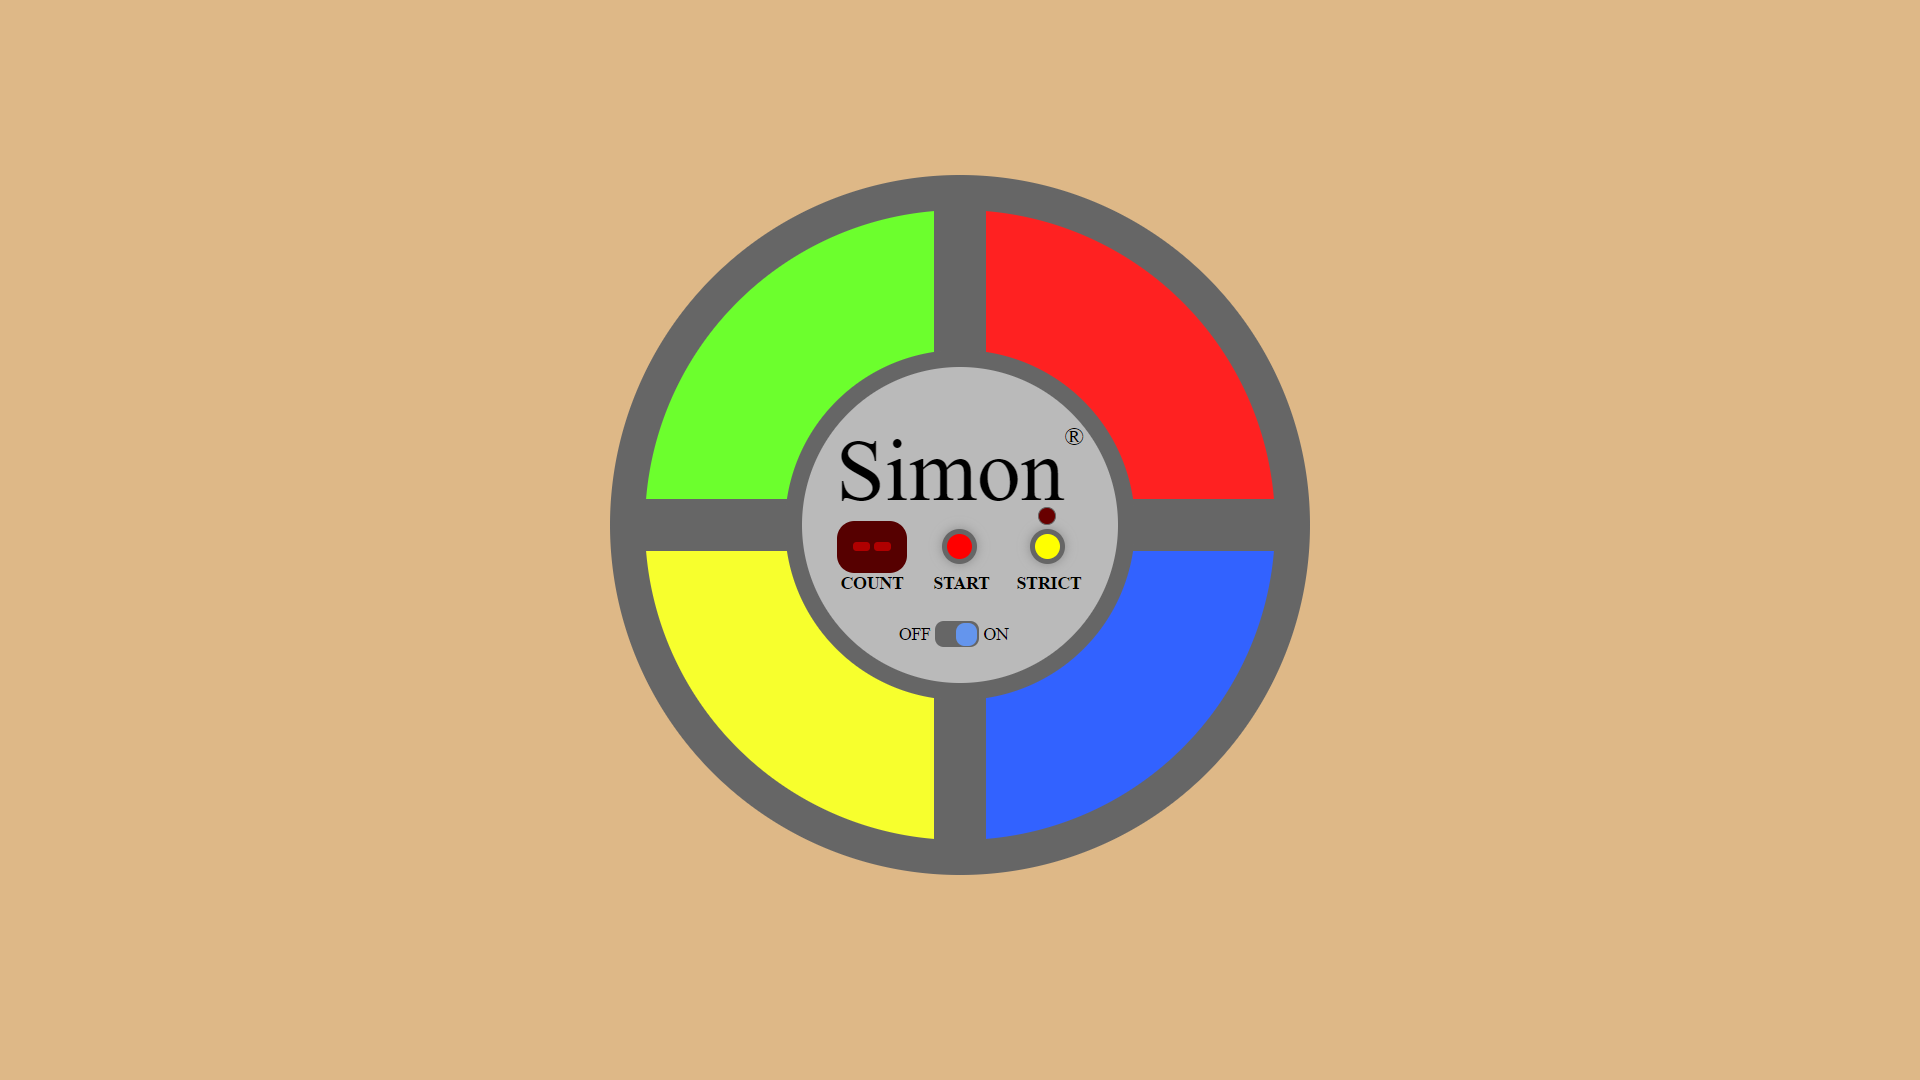
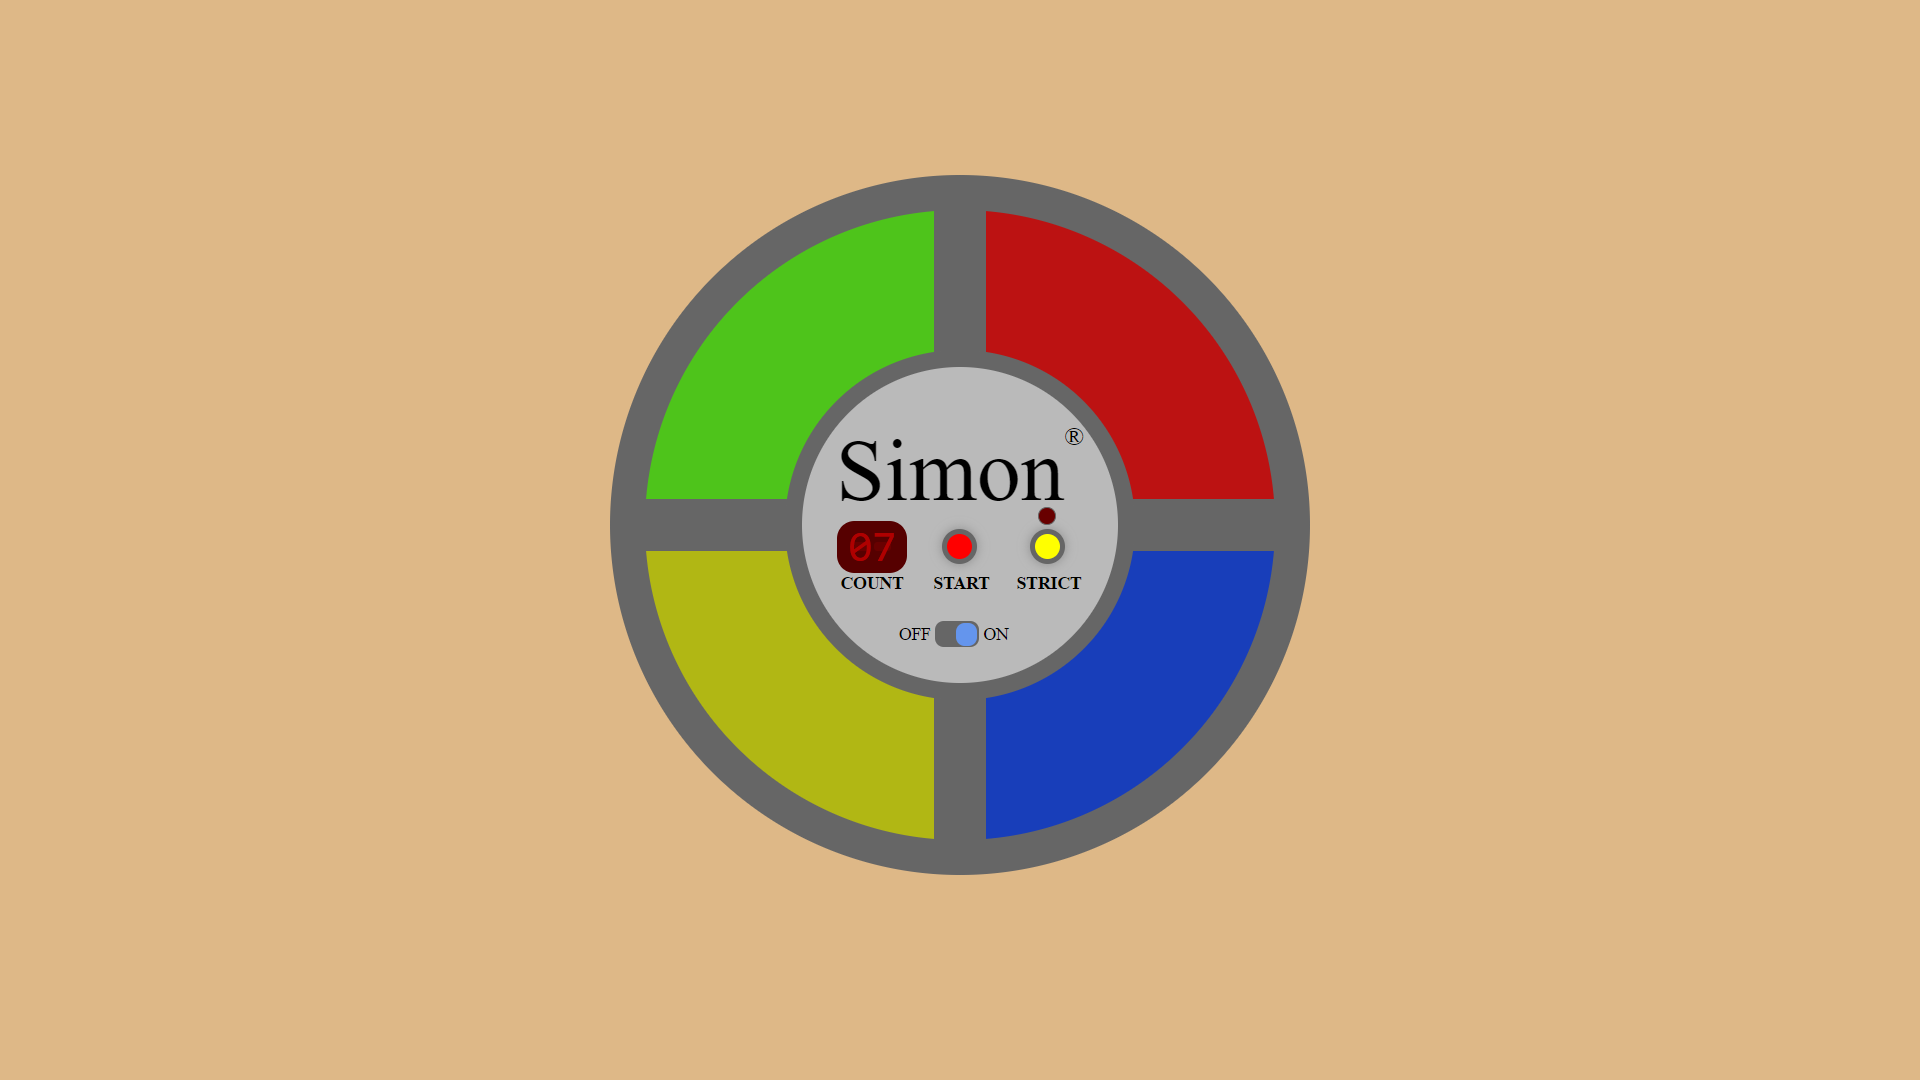
simon game colors corection

Changed region(s): [[0.3125, 0.1833, 0.6875, 0.7944], [0.4375, 0.4889, 0.4688, 0.5194]]

diff --git a/simon-game/style.css b/simon-game/style.css
@@ -25,22 +25,22 @@ body {
 
 .top-left-segment {
     border-top-left-radius: 100%;
-    background-color: #6cff2d;
+    background-color: #4ec41b;
 }
 
 .top-right-segment {
     border-top-right-radius: 100%;
-    background-color: #ff2121;
+    background-color: #bc1212;
 }
 
 .bot-left-segment {
     border-bottom-left-radius: 100%;
-    background-color: #f7ff2d;
+    background-color: #b1b714;
 }
 
 .bot-right-segment {
     border-bottom-right-radius: 100%;
-    background-color: #3262ff;
+    background-color: #183eba;
 }
 
 .top-left-segment.active {
